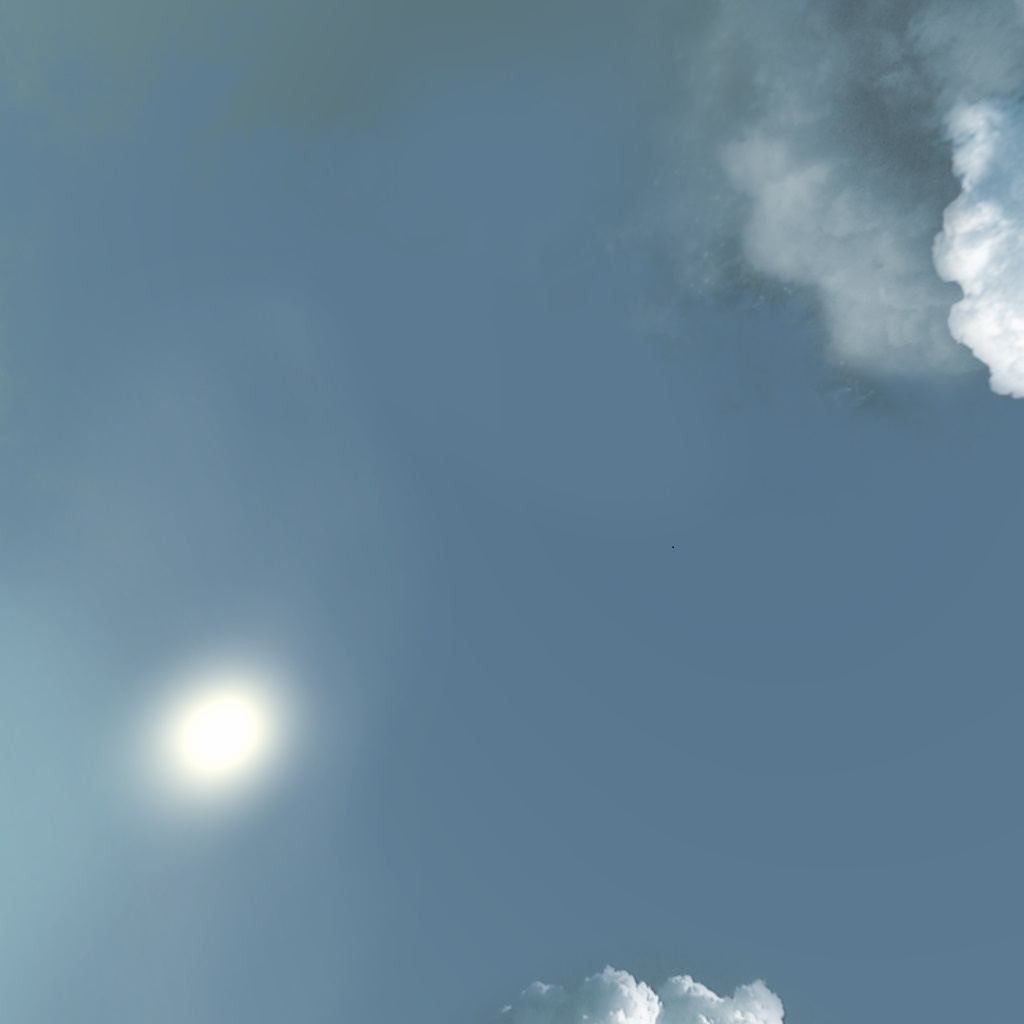
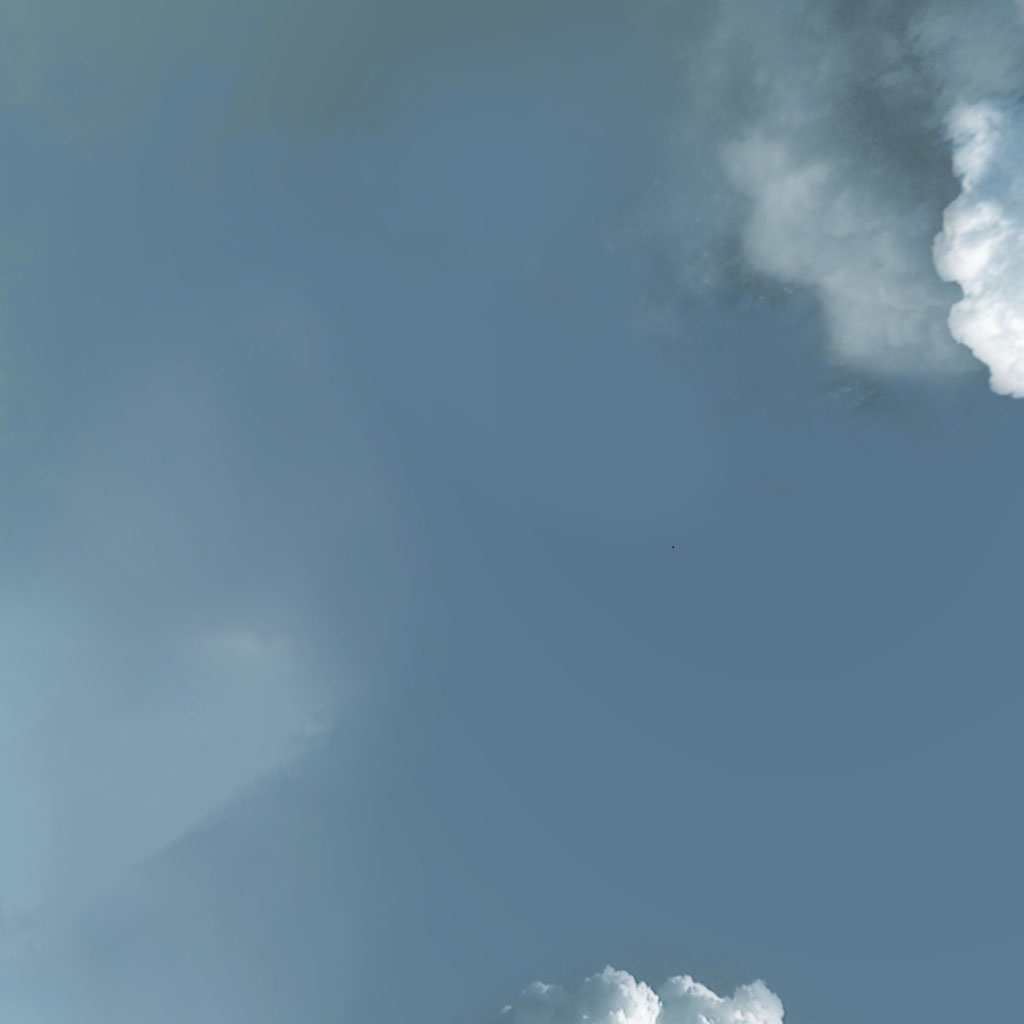
removed sun from texture

Changed region(s): [[0.0938, 0.625, 0.3125, 0.8125]]

diff --git a/main.js b/main.js
@@ -15,8 +15,6 @@ var cameraFlight = true;
 // root of the scenegraph
 var root;
 
-//var textureVertexShader;
-//var textureFragmentShader;
 // texture variables
 var robotHeadTexture;
 var robotBodyTexture;
@@ -113,7 +111,6 @@ function init(resources) {
   root =  new SGNode();
 
   //TODO remove sun from sky
-//TODO check matiarl2 u_mat2?????
     {
       //initialize light
       let light = new LightSGNode(); //use now framework implementation of light node

diff --git a/robo.js b/robo.js
@@ -6,8 +6,6 @@ var roboX = 0;
 var roboY = 0;
 var roboZ = 0;
 
-//TODO change edwins textures
-//TODO change endCloud texture
 //TODO put particleFilter on bonfire
 //TODO evtl change particle size
 //TODO change materials
